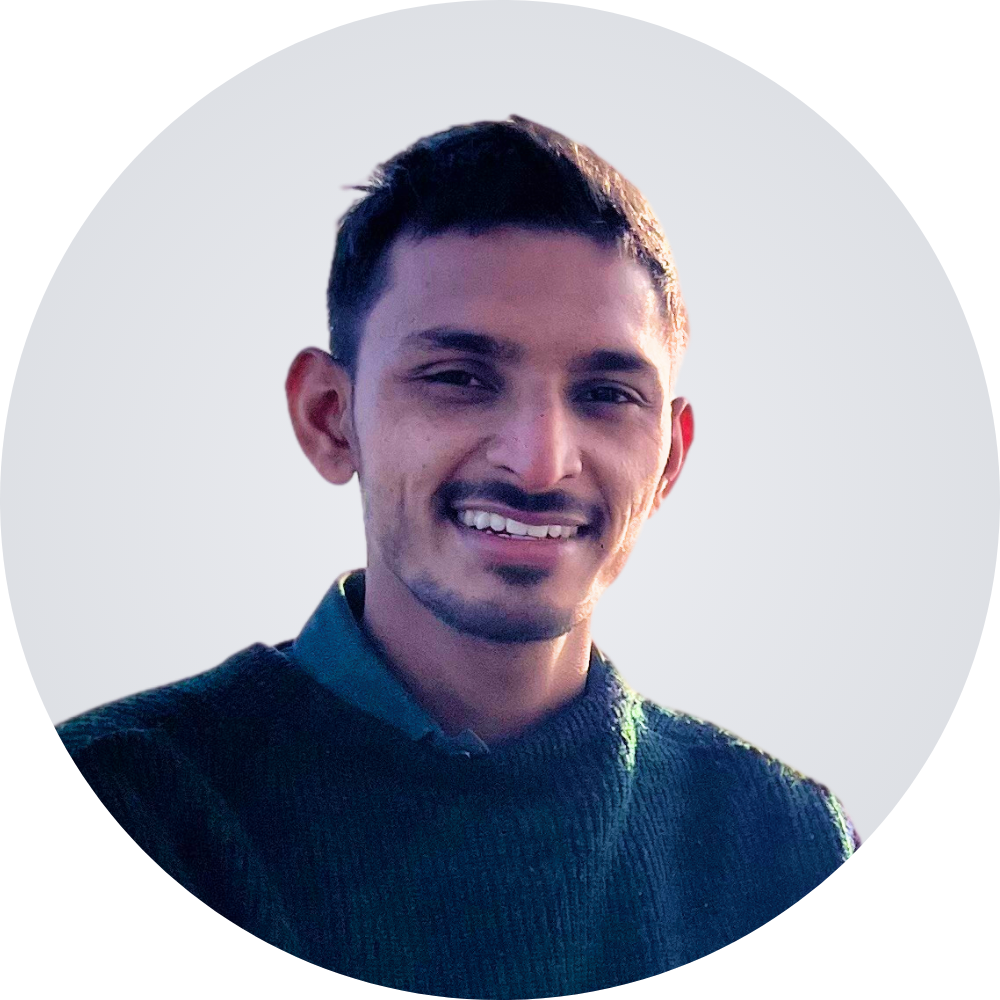
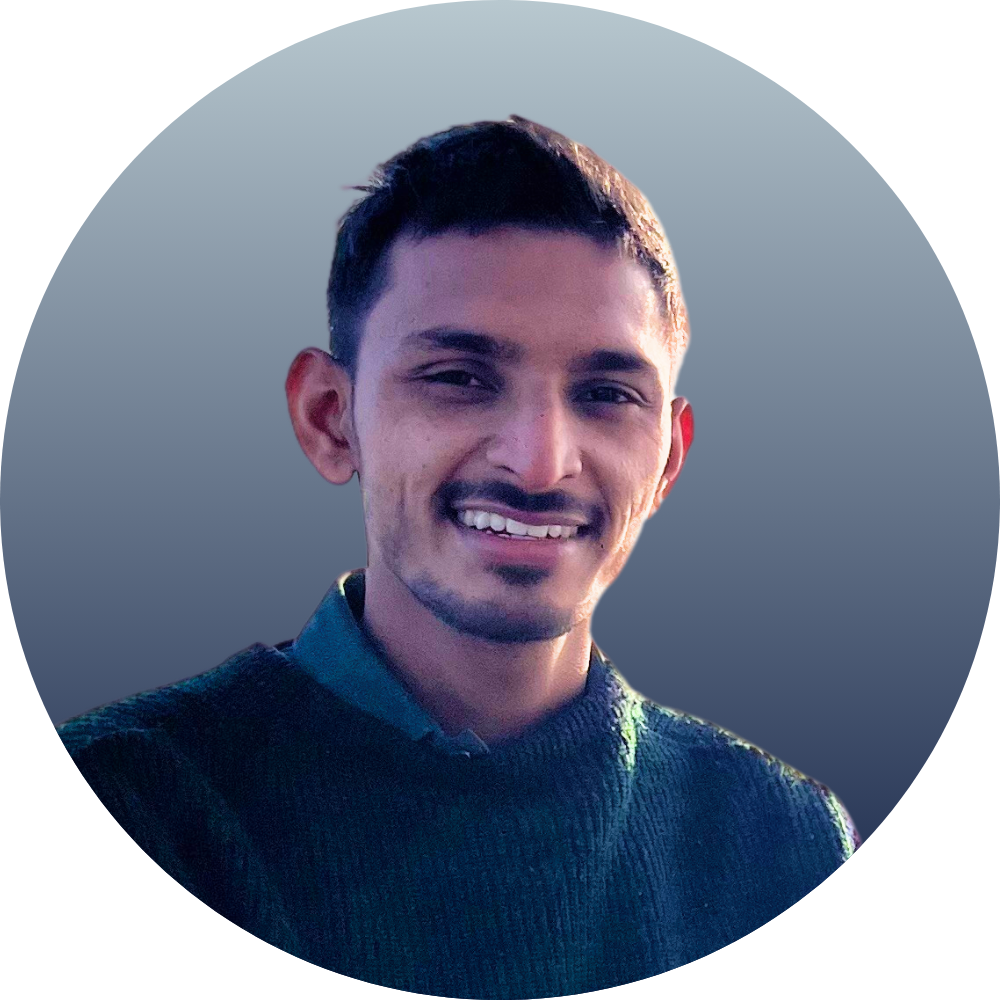
Color Theme updates

diff --git a/style.css b/style.css
@@ -17,7 +17,7 @@ html {
 }
 
 p {
-    color: rgb(85, 85, 85);
+    color: #B8C8CF;
 }
 
 /* Transition */
@@ -47,20 +47,29 @@ nav {
 }
 
 a {
-    color: black;
+    color: #B8C8CF;
     text-decoration: none;
     text-decoration-color: white;
 }
 
 a:hover {
-    color: grey;
+    color: white;
     text-decoration: underline;
     text-underline-offset: 1rem;
-    text-decoration-color: rgb(181, 181, 181);
+    text-decoration-color: whitesmoke;
+}
+
+#desktop-nav {
+    background-color: #101E42;
 }
 
 .logo {
     font-size: 2rem;
+}
+
+.logo img {
+    height: 300px;
+    width: 300px;
 }
 
 .logo:hover {
@@ -90,7 +99,7 @@ a:hover {
 .hamburger-icon span {
     width: 100%;
     height: 2px;
-    background-color: black;
+    background-color: #B8C8CF;
     transition: all 0.3 ease-in-out;
 }
 
@@ -98,7 +107,7 @@ a:hover {
     position: absolute;
     top: 100%;
     right: 0;
-    background-color: white;
+    background-color: #101E42;
     width: fit-content;
     max-height: 0;
     overflow: hidden;
@@ -110,9 +119,13 @@ a:hover {
     padding: 10px;
     text-align: center;
     font-size: 1.5rem;
-    color: black;
+    color: #B8C8CF;
     text-decoration: none;
     transition: all 0.3 ease-in-out;
+}
+
+.menu-links a:hover {
+    color: white;
 }
 
 .menu-links li {
@@ -193,11 +206,13 @@ section {
 .section_text_p2 {
     font-size: 1.75rem;
     margin-bottom: 1rem;
+    color: #B8C8CF;
 }
 
 .title {
     font-size: 3rem;
     text-align: center;
+    color: #101E42;
 }
 
 #socials-container {
@@ -213,6 +228,7 @@ section {
     cursor: pointer;
     height: 2rem;
 }
+
 
 /* BUTTONS */
 
@@ -232,7 +248,7 @@ section {
 
 .btn-color-1, 
 .btn-color-2 {
-    border: rgb(53, 53, 53) 0.1rem solid;
+    border: #101E42 0.1rem solid;
 }
 
 .btn-color-1:hover, 
@@ -242,16 +258,17 @@ section {
 
 .btn-color-1, 
 .btn-color-2:hover {
-    background: rgb(53,53,53);
-    color: white;
+    background: #2B3E70;
+    color: #B8C8CF;
 }
 
 .btn-color-1:hover {
-    background: rgb(0,0,0);
+    background: #101E42;
 }
 
 .btn-color-2 {
     background: none;
+    color: #101E42;
 }
 
 .btn-color-2:hover {
@@ -299,8 +316,8 @@ section {
     flex: 1;
     background: white;
     border-radius: 2rem;
-    border: rgb(53,53,53) 0.1rem solid;
-    border-color: rgb(163,163,163);
+    border: #101E42 0.1rem solid;
+    border-color: #101E42;
     text-align: center;
 }
 
@@ -322,7 +339,7 @@ section {
 }
 
 .experience-sub-title {
-    color: rgb(85,85,85);
+    color: #2B3E70;
     font-weight: 600;
     font-size: 1.75rem;
     margin-bottom: 2rem;
@@ -361,8 +378,8 @@ article .icon {
 }
 
 .color-container {
-    border-color: rgb(163,163,163);
-    background: rgb(250,250,250);
+    border-color: #2B3E70;
+    background: #B8C8CF;
 }
 
 .project-img {
@@ -373,12 +390,12 @@ article .icon {
 
 .project-title {
     margin: 1rem;
-    color: black;
+    color: #101E42;
 }
 
 .project-btn {
-    color: black;
-    border-color: rgb(163,163,163);
+    color: #101E42;
+    border-color: #2B3E70;
 }
 
 /* CONTACT */
@@ -394,8 +411,8 @@ article .icon {
     display: flex;
     justify-content: center;
     border-radius: 2rem;
-    border: rgb(53,53,53) 0.1rem solid;
-    border-color: rgb(163,163,163);
+    border: #101E42 0.1rem solid;
+    border-color: #101E42;
     background: (250,250,250);
     margin: 2rem auto;
     padding: 0.5rem;
@@ -405,12 +422,24 @@ article .icon {
     display: flex;
     align-items: center;
     justify-content: center;
-    gap: 0.5rem;
+    gap: 0.7rem;
     margin: 1rem;
 }
 
 .contact-info-container p {
     font-size: larger;
+}
+
+.contact-info-container a {
+    color: #B8C8CF;
+}
+
+.contact-info-container a:hover {
+    color: #101E42;
+    text-decoration: underline;
+    text-underline-offset: 1rem;
+    text-decoration-thickness: 2px;
+    text-decoration-color: #101E42;
 }
 
 .contact-icon {
@@ -425,7 +454,8 @@ article .icon {
 
 footer {
     height: 26vh;
-    margin: 0 1rem;
+    margin: 0;
+    background-color: #101E42;
 }
 
 footer p {

diff --git a/index.html b/index.html
@@ -9,7 +9,7 @@
 </head>
 <body>
     <nav id="desktop-nav">
-        <div class="logo">Vipul Patil</div>
+        <div class="logo"><a href="#desktop-nav"><img src="./assets/my_logo.png" alt="My Logo"></a></div>
         <div>
             <ul class="nav-links">
                 <li><a href="#about">About</a></li>
@@ -20,7 +20,9 @@
         </div>
     </nav>
     <nav id="hamburger-nav">
-        <div class="logo">Vipul Patil</div>
+        <div class="logo">
+            <img src="./assets/my_logo.png" alt="My Logo">
+        </div>
         <div class="hamburger-menu">
             <div class="hamburger-icon" onclick="toggleMenu()">
                 <span></span>
@@ -28,6 +30,7 @@
                 <span></span>
             </div>
             <div class="menu-links">
+                <li><a href="#desktop-nav" onclick="toggleMenu()">Profile</a></li>
                 <li><a href="#about" onclick="toggleMenu()">About</a></li>
                 <li><a href="#experience" onclick="toggleMenu()">Experience</a></li>
                 <li><a href="#projects" onclick="toggleMenu()">Projects</a></li>
@@ -358,7 +361,7 @@
                 alt="Email icon" 
                 class="icon contact-icon email-icon"
                 />
-                <p><a href="mailto:examplemail@gmail.com">Example@gmail.com</a>
+                <p><a href="mailto:patilvipul244@gmail.com">Leave me a Mail</a>
                 </p>
             </div>
             <div class="contact-info-container">
@@ -370,12 +373,31 @@
                 <p><a href="https://www.linkedin.com/in/analystvipul/">LinkedIn</a>
                 </p>
             </div>
+            <div class="contact-info-container">
+                <img 
+                src="./assets/instagram.png" 
+                alt="Instagram icon" 
+                class="icon contact-icon"
+                />
+                <p><a href="https://www.instagram.com/konvipul/">Instagram</a>
+                </p>
+            </div>
+            <div class="contact-info-container">
+                <img 
+                src="./assets/twitter.png" 
+                alt="Twitter icon" 
+                class="icon contact-icon"
+                />
+                <p><a href="https://twitter.com/konvipul/">Twitter</a>
+                </p>
+            </div>
         </div>
     </section>
     <footer>
         <nav>
             <div class="nav-links-container">
                 <ul class="nav-links">
+                    <li><a href="#desktop-nav">Profile</a></li>
                     <li><a href="#about">About</a></li>
                     <li><a href="#experience">Experience</a></li>
                     <li><a href="#projects">Projects</a></li>

diff --git a/mediaqueries.css b/mediaqueries.css
@@ -11,9 +11,11 @@
 @media screen and (max-width: 1200px) {
     #desktop-nav {
         display: none;
+        background-color: #101E42;
     }
     #hamburger-nav {
         display: flex;
+        background-color: #101E42;
     }
     #experience,
     .experience-details-container {
@@ -22,6 +24,10 @@
     #profile,
     .section-container {
         display: block;
+    }
+    .logo img {
+        width: 250px;
+        height: 250px;
     }
     .arrow {
         display: none;
@@ -45,7 +51,7 @@
 
 @media screen and (max-width: 600px) {
     #contact,
-    .footer {
+    footer {
         height: 40vh;
     }
     #profile {
@@ -63,12 +69,14 @@
     .contact-info-upper-container,
     .btn-container {
         flex-wrap: wrap;
+        gap: 0.8rem;
     }
     .about-containers {
         flex-direction: column;
     }
     .contact-info-container {
         margin: 0;
+        gap: 0.8rem;
     }
     .contact-info-container p,
     .nav-links li a {
@@ -80,6 +88,12 @@
     .logo {
         font-size: 1.5rem;
     }
+
+    .logo img {
+        height: 200px;
+        width: 200px;
+    }
+
     .nav-links {
         flex-direction: column;
         gap: 0.5rem;
